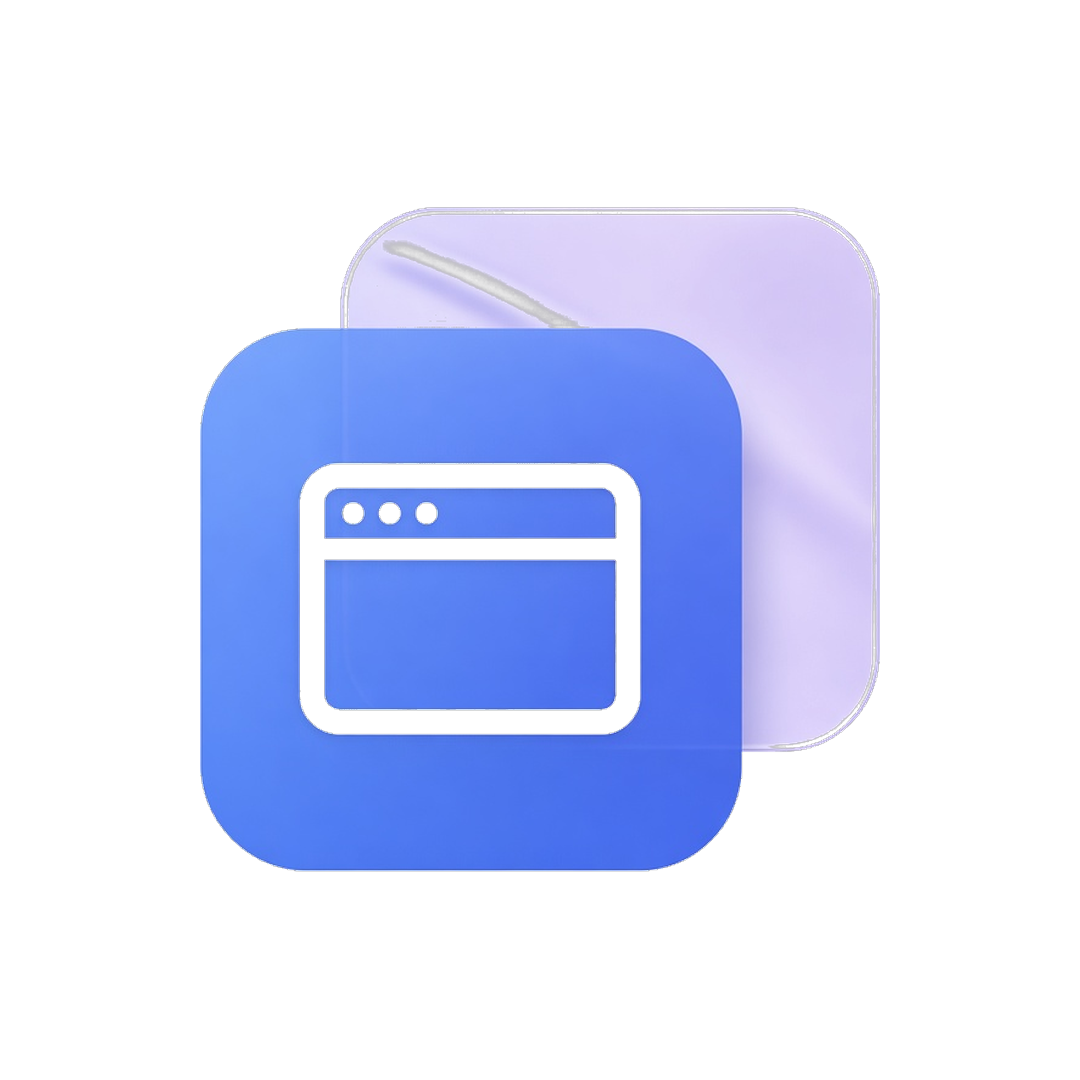
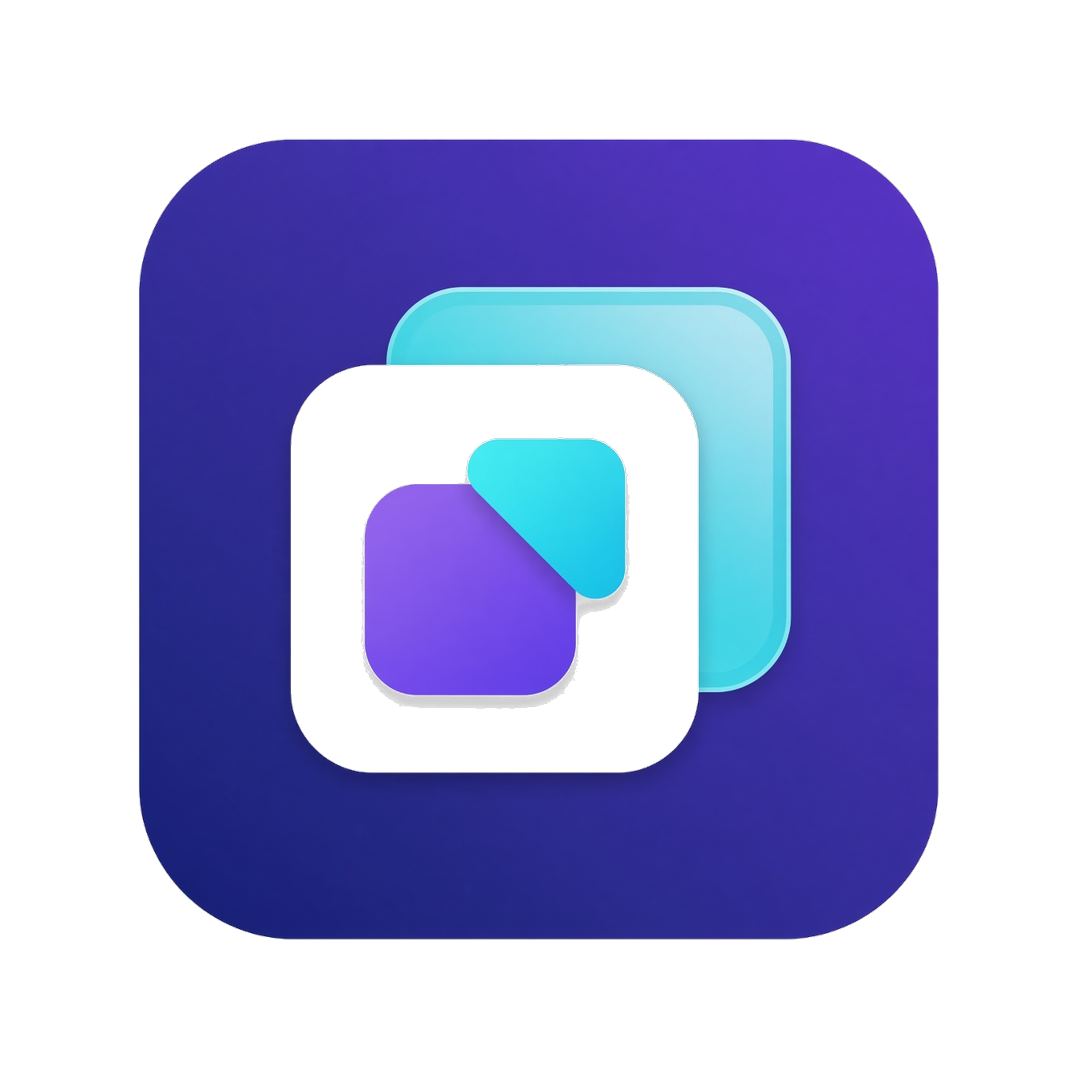
1.3.22: 启动图标改为选项 A
用户选定深蓝/白青双层分身图标；更新自适应 foreground/background 与各密度 mipmap。产品名仍为 Alter Ego。

diff --git a/test/vault_test.dart b/test/vault_test.dart
@@ -21,14 +21,14 @@ Future<void> settle(WidgetTester t, [int frames = 20]) async {
 }
 
 void main() {
-  test('版本号只加最后一位：1.3.21 → 12321', () {
-    expect(kAppVersionName, '1.3.21');
-    expect(kAppVersionCode, 12321);
-    expect(encodeVersionCode(1, 3, 21), kAppVersionCode);
-    expect(versionCodeFromName('1.3.21'), 12321);
-    expect(encodeVersionCode(1, 3, 21), greaterThan(12302));
-    expect(encodeVersionCode(1, 3, 21), greaterThan(10305));
-    expect(encodeVersionCode(1, 3, 21), greaterThan(12320));
+  test('版本号只加最后一位：1.3.22 → 12322', () {
+    expect(kAppVersionName, '1.3.22');
+    expect(kAppVersionCode, 12322);
+    expect(encodeVersionCode(1, 3, 22), kAppVersionCode);
+    expect(versionCodeFromName('1.3.22'), 12322);
+    expect(encodeVersionCode(1, 3, 22), greaterThan(12302));
+    expect(encodeVersionCode(1, 3, 22), greaterThan(10305));
+    expect(encodeVersionCode(1, 3, 22), greaterThan(12321));
   });
 
   test('密码本按分身分组，当前包名排在前面', () {
@@ -139,7 +139,7 @@ void main() {
     await t.scrollUntilVisible(find.text('本项目开源'), 400);
     expect(find.textContaining('流年似水'), findsOneWidget);
     expect(find.text('https://github.com/Liunian520/parallel_space'), findsOneWidget);
-    expect(find.textContaining('1.3.21'), findsWidgets);
+    expect(find.textContaining('1.3.22'), findsWidgets);
   });
 
   testWidgets('密码本可以直接添加、分组和删除', (t) async {

diff --git a/lib/config/app_version.dart b/lib/config/app_version.dart
@@ -1,5 +1,5 @@
 /// 与 pubspec.yaml 的 `version` 保持一致。
-/// 1.3.x 的 versionCode = 12300 + 修订号（1.3.21 → 12321），保证高于已装的 12301/12302 与 10303–10306。
+/// 1.3.x 的 versionCode = 12300 + 修订号（1.3.22 → 12322），保证高于已装的 12301/12302 与 10303–10306。
 /// 以后只把最后一位加 1，并同步 README 徽章与 CHANGELOG。
-const String kAppVersionName = '1.3.21';
-const int kAppVersionCode = 12321;
+const String kAppVersionName = '1.3.22';
+const int kAppVersionCode = 12322;

diff --git a/README.md b/README.md
@@ -2,7 +2,7 @@
 
 > 中文名：**平行空间** · 应用分身 / 双开
 
-[![version](https://img.shields.io/badge/version-1.3.21-2F7CF6)](https://github.com/Liunian520/parallel_space/blob/main/CHANGELOG.md)
+[![version](https://img.shields.io/badge/version-1.3.22-2F7CF6)](https://github.com/Liunian520/parallel_space/blob/main/CHANGELOG.md)
 [![Flutter](https://img.shields.io/badge/Flutter-3.27%2B-02569B?logo=flutter&logoColor=white)](https://flutter.dev)
 [![Android](https://img.shields.io/badge/Android-8.0%2B-3DDC84?logo=android&logoColor=white)](https://developer.android.com)
 [![license](https://img.shields.io/badge/license-MIT-lightgrey)](LICENSE)
@@ -64,7 +64,7 @@ flutter test
 flutter build apk --release --target-platform android-arm64
 ```
 
-产物在 `build/app/outputs/flutter-apk/app-release.apk` 或 `app-arm64-v8a-release.apk`（`--split-per-abi`）。版本来自 `pubspec.yaml`，当前是 **1.3.21+12321**。
+产物在 `build/app/outputs/flutter-apk/app-release.apk` 或 `app-arm64-v8a-release.apk`（`--split-per-abi`）。版本来自 `pubspec.yaml`，当前是 **1.3.22+12322**。
 
 **签名**：release 使用本机 `~/.android/debug.keystore`（与历史安装包同一证书，SHA-256 以 `5F:63:37:…` 开头）。覆盖安装必须保持同一证书；换证书会导致「必须先卸载」。`android/app/build.gradle.kts` 里 `signingConfig = signingConfigs.getByName("debug")`。
 
@@ -72,7 +72,7 @@ flutter build apk --release --target-platform android-arm64
 
 ## 版本号
 
-只把修订号加 1：当前 `1.3.21`（versionCode `12321`），下一次是 `1.3.22`（`12322`）。
+只把修订号加 1：当前 `1.3.22`（versionCode `12322`），下一次是 `1.3.23`（`12323`）。
 
 1.3.x 的 `versionCode = 12300 + 修订号`（例如 1.3.1→12301、1.3.15→12315）。这样始终高于早期误用的 `10303–10305`，也高于已装的 `12301/12302`，覆盖安装不会因 versionCode 下降而失败。应用内更新按 **versionCode 数值大小** 比较。
 

diff --git a/CHANGELOG.md b/CHANGELOG.md
@@ -1,6 +1,17 @@
 # 更新记录
 
-版本号只递增最后一位。当前是 1.3.21（versionCode 12321），下一次是 1.3.22（12322）。1.3.x 使用 `versionCode = 12300 + 修订号`。每次改版本，同步更新 `pubspec.yaml`、`lib/config/app_version.dart`、`README.md` 顶部徽章和本文件。
+版本号只递增最后一位。当前是 1.3.22（versionCode 12322），下一次是 1.3.23（12323）。1.3.x 使用 `versionCode = 12300 + 修订号`。每次改版本，同步更新 `pubspec.yaml`、`lib/config/app_version.dart`、`README.md` 顶部徽章和本文件。
+
+## [1.3.22] - 2026-10-29
+
+### 品牌
+
+- **启动图标改为选项 A**：深蓝圆角底板 + 白/青双层方块与紫青叠影 glyph，更清晰表达「应用分身 / 双开」；按自适应图标流程更新各密度 mipmap 与 foreground/background。
+- 产品名仍为 **Alter Ego**（`applicationId` 不变）。
+
+### 其他
+
+- 版本 `1.3.22+12322`。
 
 ## [1.3.21] - 2026-10-29
 
